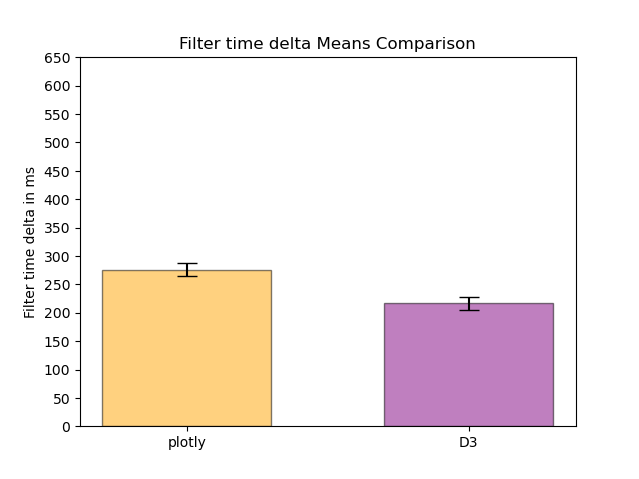
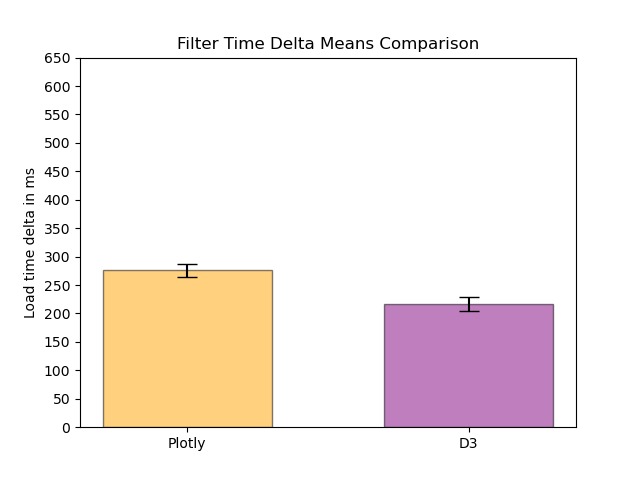
finished processing the data for pilot study

diff --git a/pilotData/diffs/individualfiltersCI.py b/pilotData/diffs/individualfiltersCI.py
@@ -34,34 +34,96 @@ D3Filter5 = d3_df.iloc[4::5]
 print(plotlyFilter1,plotlyFilter2,plotlyFilter3,plotlyFilter4,plotlyFilter5)
 print(D3Filter1,D3Filter2,D3Filter3,D3Filter4,D3Filter5)
 
-print("CI plotly delta: ", mean_confidence_interval(plotly_df['delta']))
-print("CI custom delta: ", mean_confidence_interval(d3_df['delta']))
+print("CI plotly filter 1: ", mean_confidence_interval(plotlyFilter1['delta']))
+print("CI plotly filter 2: ", mean_confidence_interval(plotlyFilter2['delta']))
+print("CI plotly filter 3: ", mean_confidence_interval(plotlyFilter3['delta']))
+print("CI plotly filter 4: ", mean_confidence_interval(plotlyFilter4['delta']))
+print("CI plotly filter 5: ", mean_confidence_interval(plotlyFilter5['delta']))
+print("CI D3 filter 1: ", mean_confidence_interval(D3Filter1['delta']))
+print("CI D3 filter 2: ", mean_confidence_interval(D3Filter2['delta']))
+print("CI D3 filter 3: ", mean_confidence_interval(D3Filter3['delta']))
+print("CI D3 filter 4: ", mean_confidence_interval(D3Filter4['delta']))
+print("CI D3 filter 5: ", mean_confidence_interval(D3Filter5['delta']))
 
-CI_delta = mean_confidence_interval(plotly_df['delta'])
-CI_delta2 = mean_confidence_interval(d3_df['delta'])
+plotlyFilter1_CI = mean_confidence_interval(plotlyFilter1['delta'])
+plotlyFilter2_CI = mean_confidence_interval(plotlyFilter2['delta'])
+plotlyFilter3_CI = mean_confidence_interval(plotlyFilter3['delta'])
+plotlyFilter4_CI = mean_confidence_interval(plotlyFilter4['delta'])
+plotlyFilter5_CI = mean_confidence_interval(plotlyFilter5['delta'])
+D3Filter1_CI = mean_confidence_interval(D3Filter1['delta'])
+D3Filter2_CI = mean_confidence_interval(D3Filter2['delta'])
+D3Filter3_CI = mean_confidence_interval(D3Filter3['delta'])
+D3Filter4_CI = mean_confidence_interval(D3Filter4['delta'])
+D3Filter5_CI = mean_confidence_interval(D3Filter5['delta'])
+
+
+# CI_delta = mean_confidence_interval(plotly_df['delta'])
+# CI_delta2 = mean_confidence_interval(d3_df['delta'])
 
 # width of the bars
-barWidth = 0.6
+barWidth = 0.2
 
 # Bars Data
-barsData = [plotly_df['delta'].mean(), d3_df['delta'].mean()]
-print(barsData)
+# barsData = [plotlyFilter1['delta'].mean(), D3Filter1['delta'].mean(), 
+#             plotlyFilter2['delta'].mean(), D3Filter2['delta'].mean(), 
+#             plotlyFilter3['delta'].mean(), D3Filter3['delta'].mean(),
+#             plotlyFilter4['delta'].mean(), D3Filter4['delta'].mean(),
+#             plotlyFilter5['delta'].mean(), D3Filter5['delta'].mean()
+#             ]
+PlotlyBarsData = [plotlyFilter1['delta'].mean(), 
+            plotlyFilter2['delta'].mean(), 
+            plotlyFilter3['delta'].mean(),
+            plotlyFilter4['delta'].mean(),
+            plotlyFilter5['delta'].mean()
+            ]
+D3BarsData = [D3Filter1['delta'].mean(), 
+            D3Filter2['delta'].mean(), 
+            D3Filter3['delta'].mean(),
+            D3Filter4['delta'].mean(),
+            D3Filter5['delta'].mean()
+            ]
+# print(barsData)
 
 # The x-position order of bars
 # barsOrder = range(len(df.columns))
-barsOrder = range(2)
+# barsOrder = range(10)
+barsOrder = np.arange(5)
 
 # Std Bars Interval
 # barsInterval = df.std()
 
 # Bars for CI Intervals
-df_CI = pd.DataFrame(list(zip(CI_delta, CI_delta2)), columns=['plotly', 'd3'])
+# df_CI = pd.DataFrame(list(zip(plotlyFilter1_CI, D3Filter1_CI, 
+#                               plotlyFilter2_CI, D3Filter2_CI,
+#                               plotlyFilter3_CI, D3Filter3_CI,
+#                               plotlyFilter4_CI, D3Filter4_CI,
+#                               plotlyFilter5_CI, D3Filter5_CI,
+#                               )), columns=['plotlyfilter1', 'd3filter1',
+#                                            'plotlyfilter2', 'd3filter2',
+#                                            'plotlyfilter3', 'd3filter3',
+#                                            'plotlyfilter4', 'd3filter4',
+#                                            'plotlyfilter5', 'd3filter5',])
+plotly_df_CI = pd.DataFrame(list(zip(plotlyFilter1_CI, 
+                              plotlyFilter2_CI,
+                              plotlyFilter3_CI,
+                              plotlyFilter4_CI,
+                              plotlyFilter5_CI,
+                              )), columns=['plotlyfilter1','plotlyfilter2','plotlyfilter3','plotlyfilter4','plotlyfilter5'])
+D3_df_CI = pd.DataFrame(list(zip(D3Filter1_CI, 
+                              D3Filter2_CI,
+                              D3Filter3_CI,
+                              D3Filter4_CI,
+                              D3Filter5_CI,
+                              )), columns=['D3filter1','D3filter2','D3filter3','D3filter4','D3filter5'])
 
-barsInterval = df_CI.iloc[1]
-print(barsInterval)
+# barsInterval = df_CI.iloc[1]
+PlotlybarsInterval = plotly_df_CI.iloc[1]
+# print(PlotlybarsInterval)
+D3barsInterval = D3_df_CI.iloc[1]
+# print(D3barsInterval)
 
 # Colours of bar charts
-colors = ["orange", "purple"]
+# colors = ["orange", "purple"]
 
 # Opacity of colours
 Opacity = 0.5
@@ -74,15 +136,25 @@ Opacity = 0.5
 intervalCapsize = 0
 
 # Plot bars
-plt.bar(barsOrder, barsData, color=colors, edgecolor='black', width=barWidth,
-        yerr=barsInterval, capsize=7, alpha=Opacity, bottom=intervalCapsize)
+# plt.bar(barsOrder, barsData, color=colors, edgecolor='black', width=barWidth,
+#         yerr=barsInterval, capsize=7, alpha=Opacity, bottom=intervalCapsize)
+
+# set a fig size to always have the window be this size.
+plt.figure(figsize=(15,6))
+
+plt.bar(barsOrder-0.1, PlotlyBarsData, color="orange", edgecolor='black', width=barWidth,
+        yerr=PlotlybarsInterval, capsize=7, alpha=Opacity, bottom=intervalCapsize)
+plt.bar(barsOrder+0.1, D3BarsData, color="purple", edgecolor='black', width=barWidth,
+        yerr=D3barsInterval, capsize=7, alpha=Opacity, bottom=intervalCapsize)
 
 # Put a tick on the x-axis undex each bar and label it with column name
 # plt.xticks(range(len(df.columns)), df.columns)
 
-plt.ylabel('Load delta in ms')
+plt.ylabel('Load time delta in ms')
 plt.yticks(range(0, 700, 50))
-plt.xticks(range(2), ['plotly', 'D3'])
-plt.title('Load-delta Means Comparison')
+plt.xticks(range(5), ['BE', 'DE','BE & DK', 'ES, CZ, EL, ES, FR, HR, IT, CY, LV, LT, LU & EE', 'FI, SE & DK'])
+plt.title('Individual Filters Time Delta Means Comparison')
+plt.legend(["Plotly", "D3"]) 
 plt.grid(False)
-plt.show()
+plt.savefig('../Graphs/IndividualFilterLoadTimeDelta.png', bbox_inches='tight')
+# plt.show()

diff --git a/pilotData/diffs/individualfilterAnova.py b/pilotData/diffs/individualfilterAnova.py
@@ -27,11 +27,30 @@ def exampleAnova():
 
     d3_data = "D3LoadDelta.txt"
     d3_df = pd.read_csv(d3_data, header=None, names=['delta'])
+
+    # plotlyFilter1 = plotly_df.iloc[0::5]
+    # plotlyFilter2 = plotly_df.iloc[1::5]
+    # plotlyFilter3 = plotly_df.iloc[2::5]
+    # plotlyFilter4 = plotly_df.iloc[3::5]
+    # plotlyFilter5 = plotly_df.iloc[4::5]
+    # D3Filter1 = d3_df.iloc[0::5]
+    # D3Filter2 = d3_df.iloc[1::5]
+    # D3Filter3 = d3_df.iloc[2::5]
+    # D3Filter4 = d3_df.iloc[3::5]
+    # D3Filter5 = d3_df.iloc[4::5]
     # Run Anova on data groups
-    if (anova(plotly_df['delta'], d3_df['delta'])):
-        print("The means are different")
-    else:
-        print("No differences in means")
+    # if (anova(plotly_df['delta'], d3_df['delta'])):
+    #     print("The means are different")
+    # else:
+    #     print("No differences in means")
+    for i in range(5):
+        print(i)
+        plotly_df.iloc[i::5]
+        d3_df.iloc[i::5]
+        if (anova(plotly_df.iloc[i::5]['delta'], d3_df.iloc[i::5]['delta'])):
+            print("The means are different")
+        else:
+            print("No differences in means")
 
 
 exampleAnova()

diff --git a/pilotData/diffs/filterCI.py b/pilotData/diffs/filterCI.py
@@ -65,9 +65,10 @@ plt.bar(barsOrder, barsData, color=colors, edgecolor='black', width=barWidth,
 # Put a tick on the x-axis undex each bar and label it with column name
 # plt.xticks(range(len(df.columns)), df.columns)
 
-plt.ylabel('Filter time delta in ms')
+plt.ylabel('Load time delta in ms')
 plt.yticks(range(0, 700, 50))
-plt.xticks(range(2), ['plotly', 'D3'])
-plt.title('Filter time delta Means Comparison')
+plt.xticks(range(2), ['Plotly', 'D3'])
+plt.title('Filter Time Delta Means Comparison')
 plt.grid(False)
-plt.show()
+plt.savefig('../Graphs/filterLoadTimeDelta.png')
+# plt.show()

diff --git a/pilotData/diffs/CI.py b/pilotData/diffs/CI.py
@@ -67,7 +67,8 @@ plt.bar(barsOrder, barsData, color=colors, edgecolor='black', width=barWidth,
 
 plt.ylabel('Load delta in ms')
 plt.yticks(range(0, 700, 50))
-plt.xticks(range(2), ['plotly', 'D3'])
-plt.title('Load-delta Means Comparison')
+plt.xticks(range(2), ['Plotly', 'D3'])
+plt.title('Load-time Delta Means Comparison')
 plt.grid(False)
-plt.show()
+plt.savefig('../Graphs/loadTimeDelta.png')
+# plt.show()
